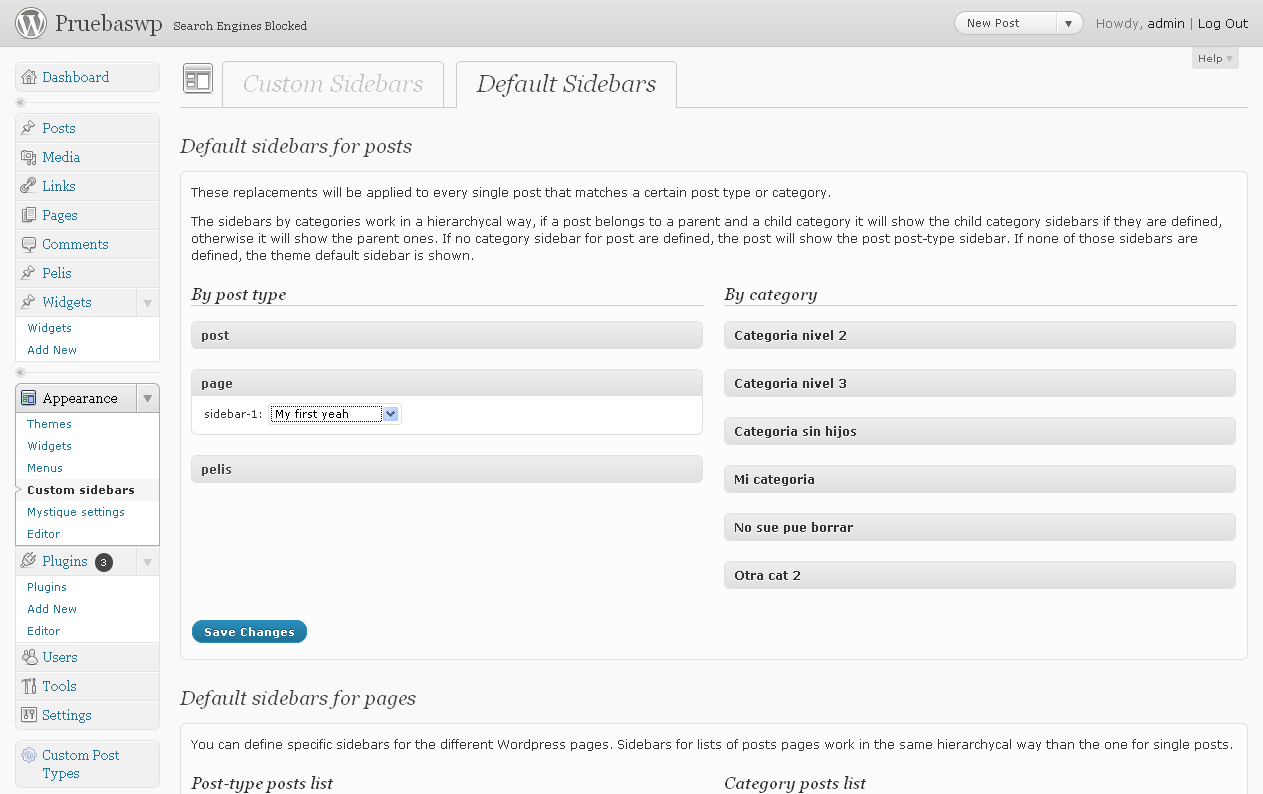
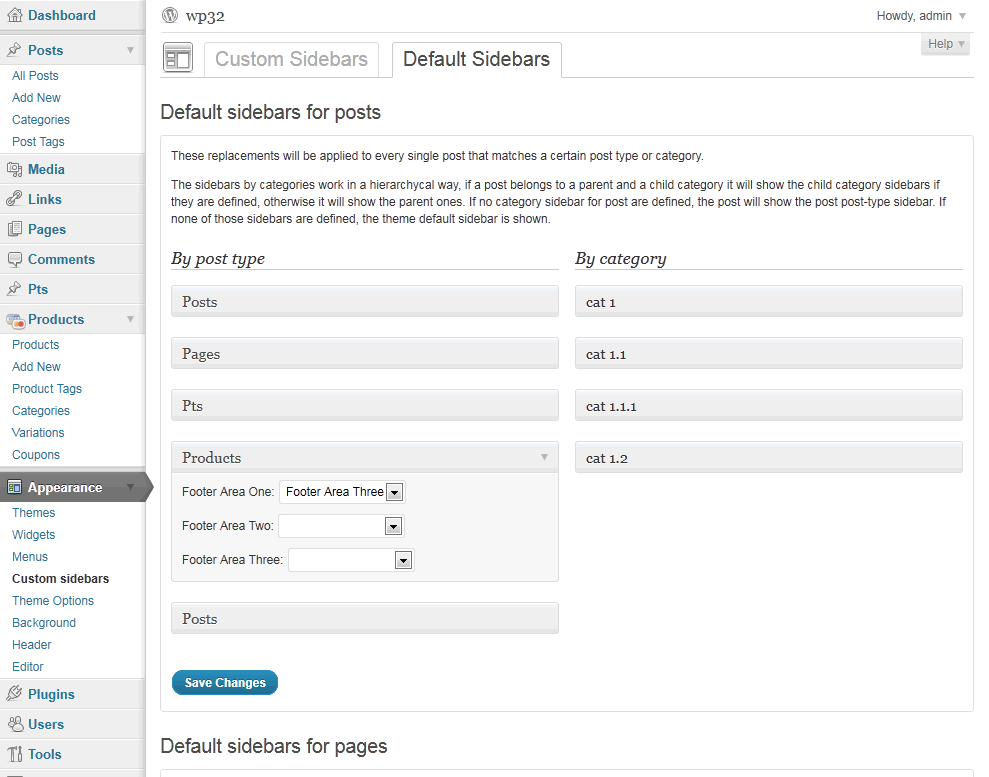
Uploaded version 0.8 to trunk
git-svn-id: https://plugins.svn.wordpress.org/custom-sidebars/trunk@392516 b8457f37-d9ea-0310-8a92-e5e31aec5664

diff --git a/view-defaults.php b/view-defaults.php
@@ -29,8 +29,8 @@ category_posts_{$id_category}_{$id_modifiable} : Posts by category
 		<h3 class='hndle'><span><?php _e($c->name); ?></span></h3>
 		
 		<div class="inside">
-		<?php if(!empty($modifiable)): foreach($modifiable as $m):?>
-			<p><?php echo $m; ?>: 
+		<?php if(!empty($modifiable)): foreach($modifiable as $m): $sb_name = $allsidebars[$m]['name'];?>
+			<p><?php echo $sb_name; ?>: 
 				<select name="category_posts_<?php echo $c->cat_ID; ?>_<?php echo $m;?>">
 					<option value=""></option>
 				<?php foreach($allsidebars as $key => $sb):?>
@@ -57,20 +57,20 @@ category_posts_{$id_category}_{$id_modifiable} : Posts by category
 <div class="cscolleft">
 
 <?php /***************************************
-type_posts_{$id_post_type}_{$id_modifiable} : Posts by category
+type_posts_{$id_post_type}_{$id_modifiable} : Posts by post type
 *********************************************/?>
 
 <div class="defaultsSelector">
 <h3 class="csh3title"><?php _e('By post type','custom-sidebars'); ?></h3>
 <div id="posttypes-default" class="meta-box-sortables">
-	<?php foreach($post_types as $pt):?>
+	<?php foreach($post_types as $pt): $post_type_object = get_post_type_object($pt);?>
 	<div id="pt-<?php echo $pt; ?>" class="postbox closed" >
 		<div class="handlediv" title="Haz clic para cambiar"><br /></div>
-		<h3 class='hndle'><span><?php _e($pt); ?></span></h3>
+		<h3 class='hndle'><span><?php _e($post_type_object->label); ?></span></h3>
 		
 		<div class="inside">
-		<?php if(!empty($modifiable)): foreach($modifiable as $m):?>
-			<p><?php echo $m; ?>: 
+		<?php if(!empty($modifiable)): foreach($modifiable as $m): $sb_name = $allsidebars[$m]['name'];?>
+			<p><?php echo $sb_name; ?>: 
 				<select name="type_posts_<?php echo $pt;?>_<?php echo $m;?>">
 					<option value=""></option>
 				<?php foreach($allsidebars as $key => $sb):?>
@@ -115,8 +115,8 @@ category_page_{$id_category}_{$id_modifiable} : Category list page
 		<h3 class='hndle'><span><?php _e($c->name); ?></span></h3>
 		
 		<div class="inside">
-		<?php if(!empty($modifiable)): foreach($modifiable as $m):?>
-			<p><?php echo $m; ?>: 
+		<?php if(!empty($modifiable)): foreach($modifiable as $m): $sb_name = $allsidebars[$m]['name'];?>
+			<p><?php echo $sb_name; ?>: 
 				<select name="category_page_<?php echo $c->cat_ID; ?>_<?php echo $m;?>">
 					<option value=""></option>
 				<?php foreach($allsidebars as $key => $sb):?>
@@ -145,8 +145,8 @@ tag_page_{$id_modifiable} : Post by tag list page
 <div class="defaultsSelector">
 
 <h3 class="csh3title"><?php _e('Tag pages','custom-sidebars'); ?></h3>
-<?php if(!empty($modifiable)): foreach($modifiable as $m):?>
-			<p><?php echo $m; ?>: 
+<?php if(!empty($modifiable)): foreach($modifiable as $m): $sb_name = $allsidebars[$m]['name'];?>
+			<p><?php echo $sb_name; ?>: 
 				<select name="tag_page_<?php echo $m;?>">
 					<option value=""></option>
 				<?php foreach($allsidebars as $key => $sb):?>
@@ -173,14 +173,14 @@ type_page_{$id_post_type}_{$id_modifiable} : Posts by post type list page
 
 <h3 class="csh3title"><?php _e('Post-type posts list','custom-sidebars'); ?></h3>
 <div id="posttypelist-default" class="meta-box-sortables">
-	<?php foreach($post_types as $pt):?>
+	<?php foreach($post_types as $pt): $post_type_object = get_post_type_object($pt);?>
 	<div id="pt-<?php echo $pt; ?>" class="postbox closed" >
 		<div class="handlediv" title="Haz clic para cambiar"><br /></div>
-		<h3 class='hndle'><span><?php _e($pt); ?></span></h3>
+		<h3 class='hndle'><span><?php _e($post_type_object->label); ?></span></h3>
 		
 		<div class="inside">
-		<?php if(!empty($modifiable)): foreach($modifiable as $m):?>
-			<p><?php echo $m; ?>: 
+		<?php if(!empty($modifiable)): foreach($modifiable as $m): $sb_name = $allsidebars[$m]['name'];?>
+			<p><?php echo $sb_name; ?>: 
 				<select name="type_page_<?php echo $pt;?>_<?php echo $m;?>">
 					<option value=""></option>
 				<?php foreach($allsidebars as $key => $sb):?>
@@ -210,8 +210,8 @@ blog_page_{$id_modifiable} : Main blog page
 
 <div class="defaultsSelector">
 
-<?php if(!empty($modifiable)): foreach($modifiable as $m):?>
-			<p><?php echo $m; ?>: 
+<?php if(!empty($modifiable)): foreach($modifiable as $m): $sb_name = $allsidebars[$m]['name'];?>
+			<p><?php echo $sb_name; ?>: 
 				<select name="blog_page_<?php echo $m;?>">
 					<option value=""></option>
 				<?php foreach($allsidebars as $key => $sb):?>
@@ -235,8 +235,8 @@ authors_page_{$id_modifiable} : Any author page
 <div class="defaultsSelector">
 
 <h3 class="csh3title"><?php _e('Author pages','custom-sidebars'); ?></h3>
-<?php if(!empty($modifiable)): foreach($modifiable as $m):?>
-			<p><?php echo $m; ?>: 
+<?php if(!empty($modifiable)): foreach($modifiable as $m): $sb_name = $allsidebars[$m]['name'];?>
+			<p><?php echo $sb_name; ?>: 
 				<select name="authors_page_<?php echo $m;?>">
 					<option value=""></option>
 				<?php foreach($allsidebars as $key => $sb):?>

diff --git a/view-tabs.php b/view-tabs.php
@@ -19,6 +19,7 @@ else
 <h2 class="nav-tab-wrapper">
 <a class="nav-tab <?php echo $tabconfig; ?>" href="themes.php?page=customsidebars"><?php _e('Custom Sidebars','custom-sidebars'); ?></a>
 <a class="nav-tab <?php echo $tabdefaults; ?>" href="themes.php?page=customsidebars&p=defaults"><?php _e('Default Sidebars','custom-sidebars'); ?></a>
+<?php do_action('cs_additionalTabs'); ?>
 <?php if($tabedit): ?>
 <a class="nav-tab nav-tab-active" href="#"><?php _e('Edit Sidebar','custom-sidebars'); ?></a>
 <?php endif; ?>
